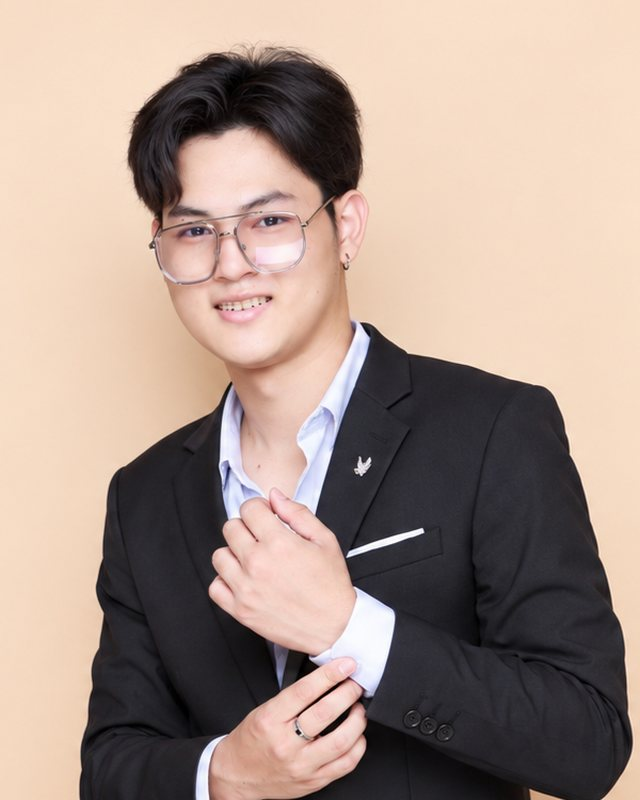
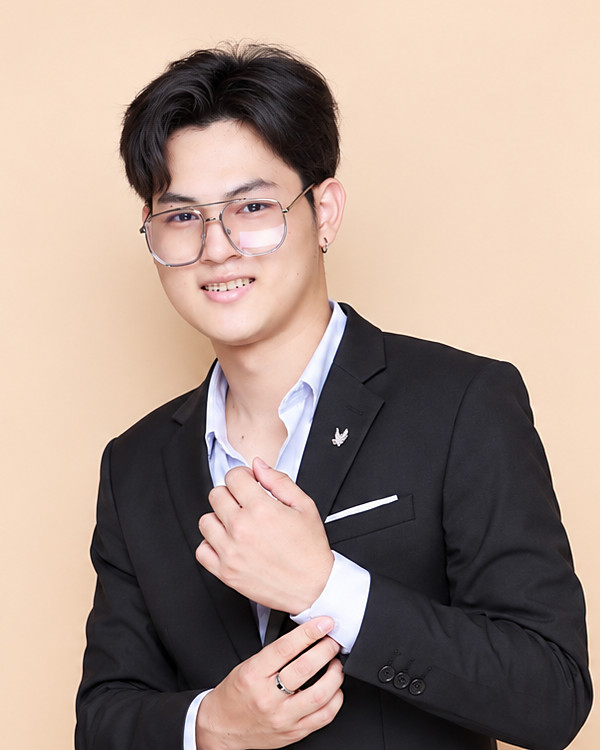
Hang the ID badge straight and sharpen the photo
- The card rests flat: a constant 3D tilt and swing made the browser resample
  the photo and text, which read as blur. The rig settles once on load; the
  card tilts a few degrees only under the pointer, then goes flat and its
  transform is cleared. The glare shows only on hover
- Portrait re-cut at the source's full resolution (600x750, quality 90,
  4:4:4, light unsharp mask) instead of upscaled to 640x800, and served
  unoptimized so it isn't re-encoded at quality 75

diff --git a/src/components/id-badge.tsx b/src/components/id-badge.tsx
@@ -7,11 +7,12 @@ import { Sprite } from "./sprite";
 
 /**
  * A staff ID badge on a lanyard, the kind his warehouse users clip on every shift.
- * The whole rig (strap, clip, card) swings from the top; the card tilts toward the pointer
- * and its laminate catches a moving glare. Every few seconds the card is read at a gate:
- * a teal line sweeps down the photo and a "scanned" chip comes up, the way the building
- * access system he built at Bangkok Medical Software reads an ID card.
- * Swing and tilt live on different elements so the two tweens never fight over one transform.
+ * It hangs straight: a constant tilt or swing makes the browser resample the photo and the
+ * text, which reads as blur. The rig settles once on load; the card tilts a little and its
+ * laminate catches a glare only while the pointer is over it, then goes flat again with its
+ * transform cleared. Every few seconds the card is read at a gate: a teal line sweeps down
+ * the photo and a "scanned" chip comes up, the way the building access system he built at
+ * Bangkok Medical Software reads an ID card.
  */
 export function IdBadge({
   photo,
@@ -34,26 +35,37 @@ export function IdBadge({
 
   useGSAP(
     () => {
-      gsap.set(card.current, { rotateY: -16, rotateX: 6 });
-
       const mm = gsap.matchMedia();
       mm.add(MOTION_OK, () => {
-        // idle swing of the whole rig on the lanyard
-        gsap.fromTo(rig.current, { rotateZ: -1.4 }, { rotateZ: 1.4, duration: 2.6, ease: "sine.inOut", yoyo: true, repeat: -1 });
+        // the rig swings once as the page opens, then hangs still
+        gsap.from(rig.current, { rotateZ: 3, duration: 2.4, ease: "elastic.out(1, 0.3)", delay: 0.5, clearProps: "transform" });
 
-        // the card tilts toward the pointer; the glare slides the opposite way
-        const rx = gsap.quickTo(card.current, "rotateX", { duration: 0.6, ease: "power3" });
-        const ry = gsap.quickTo(card.current, "rotateY", { duration: 0.6, ease: "power3" });
-        const gx = gsap.quickTo("[data-glare]", "xPercent", { duration: 0.8, ease: "power3" });
+        // while the pointer is over the card it tilts a few degrees and the glare follows
+        const el = card.current!;
+        const rx = gsap.quickTo(el, "rotateX", { duration: 0.5, ease: "power3" });
+        const ry = gsap.quickTo(el, "rotateY", { duration: 0.5, ease: "power3" });
+        const gx = gsap.quickTo("[data-glare]", "xPercent", { duration: 0.6, ease: "power3" });
+        const go = gsap.quickTo("[data-glare]", "opacity", { duration: 0.4, ease: "power2" });
+        let settle: gsap.core.Tween | undefined;
         const onMove = (e: PointerEvent) => {
-          const r = scene.current!.getBoundingClientRect();
-          const px = (e.clientX - (r.left + r.width / 2)) / window.innerWidth;
-          const py = (e.clientY - (r.top + r.height / 2)) / window.innerHeight;
-          ry(-16 + px * 22);
-          rx(6 - py * 14);
-          gx(-px * 60);
+          settle?.kill();
+          const r = el.getBoundingClientRect();
+          const px = (e.clientX - r.left) / r.width - 0.5;
+          const py = (e.clientY - r.top) / r.height - 0.5;
+          ry(px * 10);
+          rx(-py * 8);
+          gx(-px * 50);
+          go(1);
         };
-        window.addEventListener("pointermove", onMove, { passive: true });
+        const onLeave = () => {
+          rx(0);
+          ry(0);
+          go(0);
+          // once flat, drop the transform so the card renders as a plain, sharp layer
+          settle = gsap.delayedCall(0.6, () => gsap.set(el, { clearProps: "transform" }));
+        };
+        el.addEventListener("pointermove", onMove);
+        el.addEventListener("pointerleave", onLeave);
 
         // read at the gate: the beam runs down the photo, then the chip confirms
         gsap
@@ -64,7 +76,11 @@ export function IdBadge({
           .fromTo("[data-scanchip]", { autoAlpha: 0, scale: 1.5 }, { autoAlpha: 1, scale: 1, duration: 0.35, ease: "back.out(2.4)" }, "-=0.15")
           .to("[data-scanchip]", { autoAlpha: 0, duration: 0.4 }, "+=1.6");
 
-        return () => window.removeEventListener("pointermove", onMove);
+        return () => {
+          el.removeEventListener("pointermove", onMove);
+          el.removeEventListener("pointerleave", onLeave);
+          settle?.kill();
+        };
       });
     },
     { scope: scene },
@@ -79,13 +95,13 @@ export function IdBadge({
 
         <div
           ref={card}
-          className="relative origin-top overflow-hidden border-2 border-rule bg-label shadow-[18px_28px_40px_-22px_rgb(0_0_0/0.55)] [transform-style:preserve-3d]"
-          style={{ transform: "rotateY(-16deg) rotateX(6deg)" }}
+          className="relative overflow-hidden border-2 border-rule bg-label shadow-[12px_24px_40px_-22px_rgb(0_0_0/0.5)]"
         >
           {/* punched slot */}
           <div aria-hidden className="mx-auto mt-3 h-2 w-14 rounded-full bg-bench ring-2 ring-rule" />
           <div className="relative mx-4 mt-3 aspect-[4/5] overflow-hidden border-2 border-rule bg-[#d9d9d6]">
-            <Image src={photo} alt={alt} fill sizes="280px" className="object-cover object-top" priority />
+            {/* served as is: a 600x750 JPEG at quality 90, sharper than a re-encode at the default 75 */}
+            <Image src={photo} alt={alt} fill unoptimized className="object-cover object-top" priority />
             {/* gate scan: a teal line with a trailing glow, run by the timeline above */}
             <div
               data-scanbar
@@ -113,7 +129,7 @@ export function IdBadge({
           <div
             data-glare
             aria-hidden
-            className="pointer-events-none absolute -inset-y-4 -left-1/2 w-[200%] bg-[linear-gradient(110deg,transparent_38%,rgb(255_255_255/0.5)_47%,rgb(255_255_255/0.12)_53%,transparent_60%)] mix-blend-screen"
+            className="pointer-events-none absolute -inset-y-4 -left-1/2 w-[200%] bg-[linear-gradient(110deg,transparent_40%,rgb(255_255_255/0.32)_48%,rgb(255_255_255/0.08)_53%,transparent_58%)] opacity-0 mix-blend-screen"
           />
         </div>
       </div>
